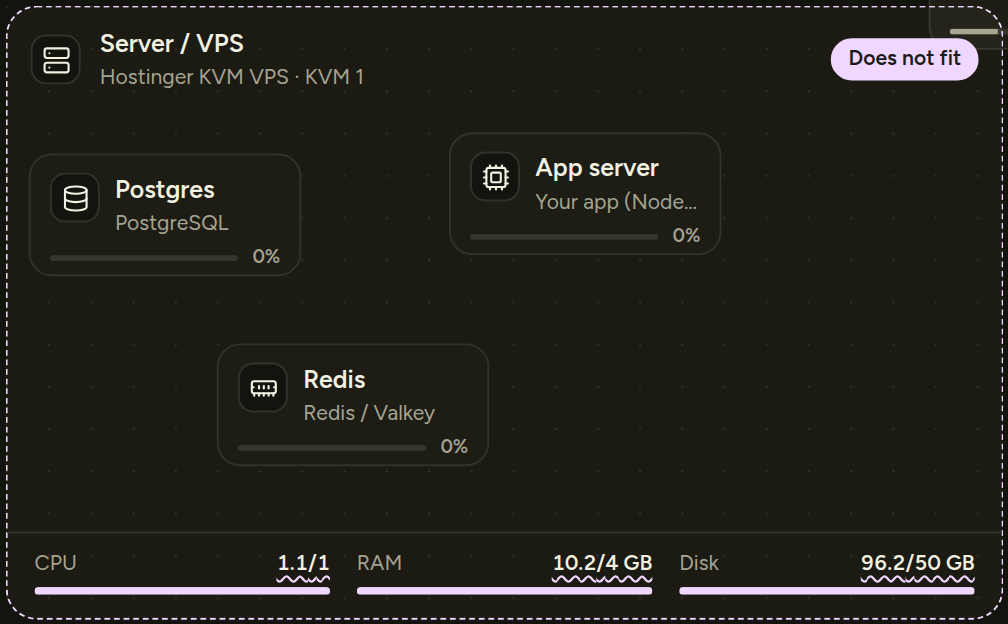
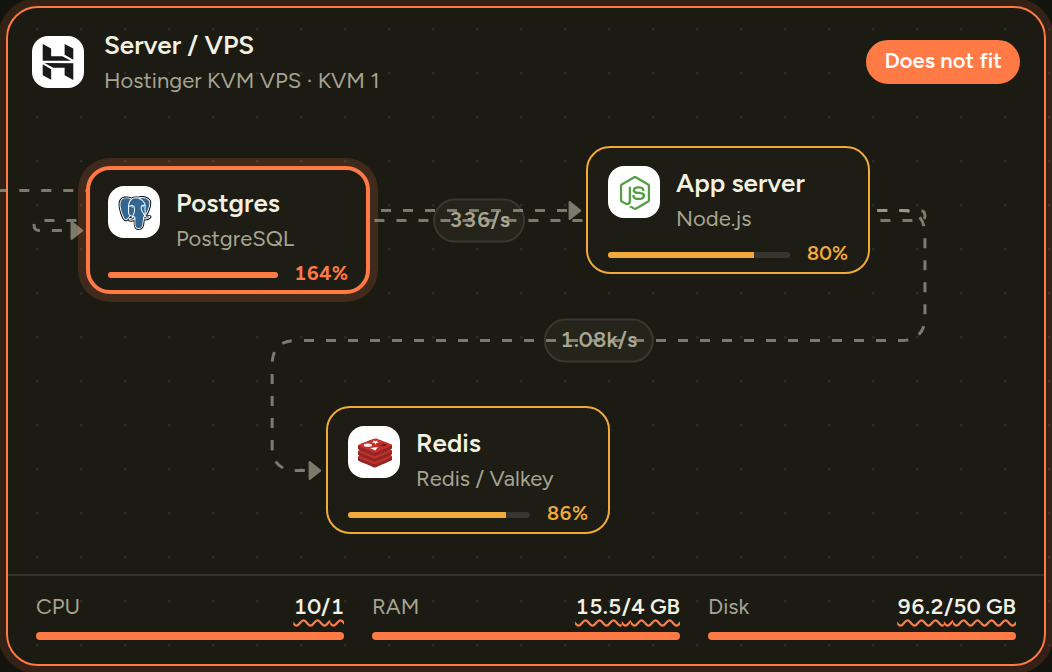
Refresh landing screenshots from the current UI; add CONTEXT.md handoff
Claude-Session: https://claude.ai/code/session_01SdDY3A2nWcDRTLEuX9q98G

diff --git a/src/app/page.tsx b/src/app/page.tsx
@@ -69,11 +69,11 @@ export default function Landing() {
           <h2>Will it run on the server you are eyeing?</h2>
           <p>Put a database, your app and a cache on a small server, and Sysd tells you straight: it will not fit, and here is what runs short. Choose the next size up and watch the warning disappear. No guessing, and no surprise upgrade the week you launch.</p>
         </div>
-        <div className="lp-media lp-frame"><Shot name="fit" w={1008} h={624} sizes="(max-width: 900px) 100vw, 600px" alt="A server block holding Postgres, an app server and Redis, marked Does not fit, with RAM at 10.2 of 4 GB and disk at 96.2 of 50 GB." /></div>
+        <div className="lp-media lp-frame"><Shot name="fit" w={1052} h={672} sizes="(max-width: 900px) 100vw, 600px" alt="A server block holding Postgres, a Node.js app server and Redis, marked Does not fit, with the meters showing that CPU, memory and disk needed are well over what the server plan offers." /></div>
       </section>
 
       <section className="lp-row lp-flip">
-        <div className="lp-media lp-frame lp-portrait"><Shot name="panel" w={576} h={1206} sizes="(max-width: 900px) 80vw, 340px" alt="Latency, errors and headroom next to a card explaining why Postgres is at 82 percent, then the cost per user per month split into compute, storage, transfer, managed and people." /></div>
+        <div className="lp-media lp-frame lp-portrait"><Shot name="panel" w={576} h={1360} sizes="(max-width: 900px) 80vw, 340px" alt="The Numbers panel: requests per second, traffic, load, fit and cost per user per month, with a plain-language box explaining why Postgres is at 82 percent." /></div>
         <div className="lp-copy">
           <h2>See your monthly bill, and where it goes.</h2>
           <p>Every design shows what each user costs you per month, split into servers, storage, data transfer, managed services and people&apos;s time. The biggest slice is called out, with the usual way to shrink it.</p>

diff --git a/CONTEXT.md b/CONTEXT.md
@@ -1,0 +1,111 @@
+# Sysd: handoff context
+
+Read this first, then `AGENTS.md` (Next.js 16 differs from older versions: read `node_modules/next/dist/docs/` before writing framework code). Last updated 2026-10-09.
+
+## What this is
+
+**Sysd** (sysd.live) is a sign-in-required web app. People draw a software system on a canvas (drag services, nest them in servers or Docker blocks), set traffic (users, req/s, peak, data, read share), and see what it costs and where it breaks. About 70% learning (visual "why" explanations), 30% cost estimation for real work.
+
+Owner: Manthan (solo, Indian, working a full-time job). Goal: find a product to own and get real users on. **Honest state: a good learning tool, not yet a trustworthy decision tool.** Only 3 hosts have real prices; everything else is illustrative; capacity numbers are rule-of-thumb (±50%). Sellability is unproven. See "Open questions".
+
+## Working with the owner
+
+- Short, scoped answers. They get overwhelmed by long forward-looking ones.
+- Honest, not a cheerleader. Verify before claiming (dates, prices, links) and show evidence. Say when you could not verify.
+- They often reply with screenshots and typos; reply directly.
+- They run a `/caveman` terse-reply mode in this project. Code, commits and docs are written normally.
+- Never print secret values. Real secrets live only in `.env.local` (gitignored). An `AUTH_SECRET` once leaked into chat output, so production uses a fresh one.
+- Ask before pushing. Push only when they say "push". Migrate Neon (production DB) before pushing code that needs a migration.
+- Commit trailer used in this repo: `Co-Authored-By: Claude ... <noreply@anthropic.com>` and a `Claude-Session:` line.
+
+## Stack
+
+Next.js 16 (App Router, **Cache Components**, Turbopack), React 19, TypeScript, @xyflow/react v12 (canvas), zustand (client store), Auth.js v5 beta (GitHub + Google only, JWT sessions), Drizzle ORM + postgres.js, zod, exceljs, Dodo Payments (`@dodopayments/nextjs`, `dodopayments`), `@vercel/analytics`. Hosting: Vercel, functions pinned to Mumbai (`vercel.json`: `bom1`). DB: Neon (production, **Singapore** `ap-southeast-1`), Docker Postgres locally.
+
+### Next.js 16 gotchas hit in this repo
+
+- Pages that read the session need `await connection()` inside a `<Suspense>` boundary (see `src/app/(account)/home/page.tsx`).
+- `export const runtime` is rejected with Cache Components. Remove it.
+- `"use server"` files may export only async functions (helpers like `safeNext` live in `src/lib/`).
+- `usePathname()` in a layout must sit in `<Suspense>` (see `NavLinks.tsx`) or prerender fails.
+- The production build **must work with no env vars** (Vercel builds without secrets): `src/db/index.ts` is a lazy proxy, and the Dodo webhook route builds its handler per request.
+- Radix-free: React Flow CSS is imported in `src/app/layout.tsx` before `globals.css`.
+
+## Run it
+
+```
+npm i
+npm run db:up        # Docker Postgres (needs .env.local with POSTGRES_PASSWORD, DATABASE_URL)
+npm run db:migrate   # applies ./drizzle to DATABASE_URL (safe to repeat)
+npm run dev          # http://localhost:3123 (dev server was run with -p 3123)
+npm run test:db      # 47 access-rule checks against local Postgres
+npm run test:billing # plan-sync from Dodo subscription states
+npm run plan -- email pro   # grant or revoke Pro by hand
+env -u DATABASE_URL npx next build   # confirm the no-env build still works
+```
+
+`.env.example` lists every variable name. Needed: `AUTH_SECRET`, `AUTH_GITHUB_ID/SECRET`, `AUTH_GOOGLE_ID/SECRET`, `DATABASE_URL`, `DODO_PAYMENTS_API_KEY`, `DODO_PAYMENTS_WEBHOOK_KEY`, `DODO_PAYMENTS_ENVIRONMENT` (`test_mode` now), `DODO_PRODUCT_PRO_MONTH/YEAR` and `_INR` variants, optional `NEXT_PUBLIC_CONTACT_EMAIL`. Production DB URL is a commented `DATABASE_URL` line in `.env.local`; to migrate production run `DATABASE_URL=<neon url> node scripts/migrate.mjs`.
+
+## Code map
+
+- `src/app/` pages: `page.tsx` landing; `login`; `app` (canvas, `app/d/[id]` saved design); `s/[token]` read-only share; `(account)/` home, teams, designs, invite, welcome, upgrade (shared header + ambient backdrop); `terms`, `privacy`; `api/auth`, `api/export`, `api/billing/{checkout,portal}`, `api/webhook/dodo`.
+- `src/components/studio/` canvas UI: `Studio`, `Canvas`, `NodeCard`, `HostNode`, `Palette`, `TopIsland` (centred, expands both ways, avatar menu), `UtilityIsland` (bottom: save, zoom, breakdown, export, theme, Go Pro), `BreakdownDock` (full-screen toggle, XLSX), `panel/*` (Numbers, inputs, load, cost, fit).
+- `src/store/useStudio.ts` zustand store (nodes, edges, workload, design state, undo, UI fold state). The sample system and its edges are here (`INITIAL_NODES/EDGES`; the CDN→Storage link has a 5% share so the sample cost is realistic).
+- `src/lib/`: `sim.ts` (traffic simulation, `splitFor`), `analysis.ts` (two-pass: loads → plans/prices → cost), `fit.ts` (host fit meters), `breakdown.ts` (rows shared by exports), `doc.ts` (design ⇄ JSON), `catalog/` (76 service types, ~600 provider offerings, plans, sizing profiles, icons), `pricing/` (`data.ts` real prices with source+date, `estimate.ts`, `rank.ts`, `plans.ts` **Pro prices**, `features.ts` **plan comparison rows**), `brand.ts` (`APP_NAME`, `PLAN_LABEL`: free plan is shown as **Starter**), `profile.ts` (welcome answers).
+- `src/server/`: `access.ts` (all authorisation), `designs/shares/teams.ts`, `plans.ts` (`requireFeature`, `FEATURES`), `billing.ts` (Dodo checkout, portal, `applySubscription`), `exports.ts` + `api/export` (Pro-only, server enforced), `profile.ts`, `doc.ts` (zod validation, `UserError`).
+- `src/db/schema.ts`; migrations `drizzle/0000–0003` (0001 design thumbnails, 0002 profile + onboarded_at, 0003 Dodo ids). Neon is migrated through 0003.
+- `public/shots/{hero,fit,panel}-{light,dark}.png` landing screenshots, all regenerated from the current UI on 2026-10-09 (regenerate whenever the UI changes: sign a session cookie for a throwaway Pro user, open `/app`, capture with Chrome DevTools Protocol at 2x). Brand logos are bundled via `scripts/build-brand-icons.mjs` from `src/lib/catalog/iconMap.ts`.
+
+## Product rules
+
+- Everything requires a profile (GitHub or Google). No email sign-up. Share links also need sign-in. Views are counted (not by whom).
+- Plans: **Starter** (db value `free`) and **Pro**. Pro today = exports (XLSX with formulas and an auto share link, CSV, JSON, SVG, PNG, printable report) + teams (viewer/editor, invite links). The **AI agent is Pro-only and not built** (Phase 3).
+- Pro price: $9/mo, $79/yr, founding $6/mo for the first 100; INR ₹499/₹3,999, founding ₹349 (`src/lib/pricing/plans.ts`). The owner considered raising to $12 at launch and $19–24 once the agent ships; undecided. Dodo products carry their own prices, so a change means new Dodo products too.
+- Costs show a basis per row: Real price / Your figure / Illustrative.
+
+## Billing (Dodo Payments)
+
+- Merchant of record chosen because Stripe is invite-only in India and Razorpay leaves tax/FX to the seller.
+- **Test mode** is configured. Four products exist (USD and INR, monthly and yearly). A product has one base currency, hence separate INR products (`productFor` in `billing.ts`).
+- Flow: `/upgrade` → `POST /api/billing/checkout` (authenticated, puts `user_id` in metadata) → Dodo checkout → `POST /api/webhook/dodo` (signature checked by the adaptor, returns 401 unsigned) → `applySubscription` sets `plan`/`planExpiresAt` from the subscription's own state (active = Pro until next billing + 3 days; cancelled keeps what was paid for; on_hold/failed/expired = Starter). Idempotent and order-insensitive. `test:billing` covers it.
+- **The webhook URL registered in Dodo must be the final host with no redirect.** It was once set to `sysd.live`, which redirects to `www.sysd.live`, so events never arrived; it is now `https://www.sysd.live/api/webhook/dodo`. If the primary domain changes, update it in Dodo (`webhooks.update`).
+- Billing is inert (button reads "Pro opens soon") unless the Dodo env vars are all set. Going live needs: Dodo live-mode approval (verification form was in progress), live API key + webhook secret, live products, Vercel env vars, and a real webhook test (cancel a test subscription and watch the DB).
+- Dodo's payout fee is described differently in their docs and pricing page; the owner was to confirm with support.
+
+## Domain, hosting and Google (state when this was written)
+
+- DNS is at Hostinger: `A @ 216.198.79.1` (Vercel), `CNAME www → sysd.live`. Vercel serves `www.sysd.live`; the apex 308-redirects to www. The owner was advised to make the apex primary; if so, update OAuth callbacks, `NEXT_PUBLIC_SITE_URL` (not yet used), Dodo webhook, and Search Console.
+- OAuth callbacks needed per host: `/api/auth/callback/github` and `/google`. A `redirect_uri_mismatch` happens when the host differs from what is registered.
+- Google Search Console: a DNS TXT verification was being set up (record must be Name `@`, value `google-site-verification=…`, copied with the Copy button).
+- Google OAuth branding verification was blocked by "domain not registered to you"; retry after Search Console verifies, then wait about 24 hours. Removing the logo avoids the need for verification.
+- **Google Safe Browsing flagged the domain as "Deceptive pages"** (no sample URLs; looks like a false positive on a new domain). A review request was recommended. If it is rejected, remove the third-party logo tiles on the landing page (`HeroDecor`, `IconRail`) and resubmit.
+- Vercel needs the env vars listed above; Framework Preset must be Next.js.
+
+## Known gaps and traps
+
+- Real prices exist for 3 hosts (Hostinger, DigitalOcean, Akamai/Linode) and S3/R2/B2/Wasabi object storage, all in `src/lib/pricing/data.ts` and `catalog/plans.ts` with source URL and fetch date. Everything else is illustrative.
+- Object-storage cost assumes every request reaches the store and objects average 100 KB, so a CDN must be modelled with a link share (the sample does this). The simulator has no automatic CDN cache-hit model.
+- Sizing profiles (`catalog/sizing.ts`) are rule-of-thumb; language runtimes (Node, Go, Rust, Python, Java, .NET, PHP, Rails, Bun, Deno) scale CPU/RAM by a factor versus Node (`profileFor`). None are sourced.
+- Latency and capacity use a per-type illustrative capacity, not the chosen plan (known gap noted before; deriving capacity from plan/host by inverting sizing profiles was proposed and not done).
+- Edge routing is React Flow smoothstep with no overlap avoidance (ELK was planned, `elkjs` is installed but unused).
+- The QA harness (headless Chrome over CDP, minting session cookies from `AUTH_SECRET`) lived in a scratch directory and is not in the repo. Rebuilding it is straightforward: sign a JWT cookie with the Auth.js secret for a throwaway user.
+- A session cookie whose user id is not a UUID makes pages error (only possible with a forged cookie).
+
+## Roadmap
+
+1. **Phase 1 (done)**: canvas UI, auth, saves, share, teams, exports, Pro gating, landing, legal, pricing page, onboarding (`/welcome`, answers stored in `users.profile`).
+2. **Phase 2 (next, owner's direction)**: real prices. Use a provider's live price API where one exists; scrape (Firecrawl) where not; every price keeps source URL + fetch date; human review before it goes live; then populate the production DB. Suggested shape: tables for sources and price points with `pending/approved` status and raw payload, ingestion scripts per provider, an approve step, and the app reading approved data (the cost engine is client-side, so publish an approved snapshot the client can load). Candidate sources to **verify before relying on them**: Azure Retail Prices API, AWS Price List files, GCP Billing Catalog (needs a key), Linode and Vultr public plan endpoints, Hetzner (token), LLM price lists. Hostinger, Cloudflare, Vercel, Neon, Supabase are likely scrapes. Reuse the Infracost Cloud Pricing API idea for AWS/Azure/GCP.
+3. **Phase 3**: Pro-only **AI architect agent**. Intended value: the user states their app and expected users and it designs the system, picks services/plans, shows where to cut cost, and can build it on the canvas. Design notes: server route `/api/agent` (auth + Pro check + zod-validated messages, server-owned system prompt and tools), client-side tool executor mutating the zustand store, undo for agent changes, usage caps (per-user daily, global monthly USD), default model `claude-haiku-5-5` via env, welcome-profile answers as context, tests against a mocked API base URL. Follow the `claude-api` skill for current SDK shapes.
+4. **SEO** (deferred until the domain settles): `sitemap.ts`, `robots.ts`, `metadataBase` + canonical on one host, Open Graph image, JSON-LD (SoftwareApplication/FAQ), `llms.txt`, noindex on app/login pages, and public example pages (cost of running X for N users) since share links currently need sign-in.
+5. Also pending: account self-delete (policy says deletion is by request), a real webhook test, public pricing page for payment reviewers (`/upgrade` needs sign-in), pushing commit `d0ae2d8` (local at the time of writing).
+
+## Open questions for the owner
+
+- Final price and whether Teams are per seat.
+- Which wedge: pre-launch cost planning for indie SaaS, or system-design interview practice.
+- Evidence of willingness to pay: the plan was 20 hand-picked users designing a real app, then asking who would pay.
+- Primary domain: apex or www.
+
+## Marketing notes (judgment, not data)
+
+Target learners first, then indie founders. Hook: "See the bill for your app before you build it." Short screen-recorded demos, public example designs, build in public, one Product Hunt / Show HN launch once the live site is solid. Measure sign-ups, saved designs and shared designs weekly.
